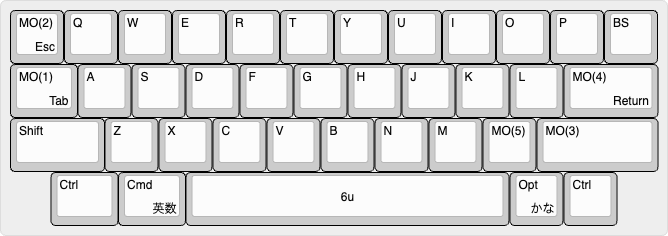
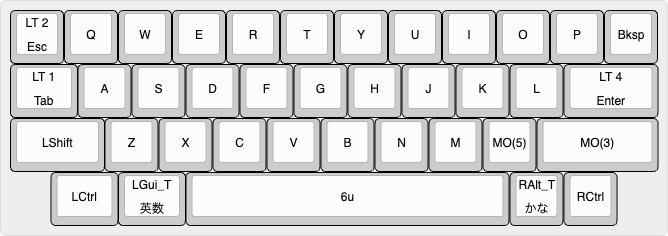
Add each layer images

diff --git a/README.md b/README.md
@@ -6,23 +6,37 @@ A 38-key (3-octave + 1) keyboard.
 
 ## Layout
 
-**Layer 0**:
+v0.3.0
 
-📄 [keyboard-layout.png](layout/keyboard-layout.png) (v0.2.0)
+**Layer 0**:
 
 ![keyboard layout](layout/keyboard-layout.png)
 
-MEMO: When pressed individually and released, it becomes the lower right keys (Esc, 英数 and かな).
+MEMO: I couldn't figure out how to map keys to `fn` on macOS using Vial, so I am using Karabiner-Elements, a macOS app, to modify `right_control` to `fn`.
+
+**Layer 1, 2**: arrows, symbols
+
+![keyboard layout 1](layout/keyboard-layout-1.png)
+![keyboard layout 2](layout/keyboard-layout-2.png)
+
+**Layer 3, 4**: nums, symbols
+
+![keyboard layout 3](layout/keyboard-layout-3.png)
+![keyboard layout 4](layout/keyboard-layout-4.png)
+
+**Layer 5**: fn
+
+![keyboard layout 5](layout/keyboard-layout-5.png)
 
 **RAW data for Keyboard Layout Editor v0.15:**
 
 📄 [keyboard-layout.rawdata.json](layout/keyboard-layout.rawdata.json)
 
 ```json
-["MO(2)\n\n\nEsc","Q","W","E","R","T","Y","U","I","O","P","BS"],
-[{"w":1.25},"MO(1)\n\n\nTab","A","S","D","F","G","H","J","K","L",{"w":1.75},"MO(4)\n\n\nReturn"],
-[{"w":1.75},"Shift","Z","X","C","V","B","N","M","MO(5)",{"w":2.25},"MO(3)"],
-[{"x":0.75,"w":1.25},"Ctrl",{"w":1.25},"Cmd\n\n\n英数",{"a":7,"w":6},"6u",{"a":4},"Opt\n\n\nかな","Ctrl"]
+[{a:1},"LT 2\nEsc",{a:7},"Q","W","E","R","T","Y","U","I","O","P","Bksp"],
+[{a:1,w:1.25},"LT 1\nTab",{a:7},"A","S","D","F","G","H","J","K","L",{a:1,w:1.75},"LT 4\nEnter"],
+[{a:7,w:1.75},"LShift","Z","X","C","V","B","N","M","MO(5)",{w:2.25},"MO(3)"],
+[{x:0.75,w:1.25},"LCtrl",{a:1,w:1.25},"LGui_T\n英数",{a:7,w:6},"6u",{a:1},"RAlt_T\nかな",{a:7},"RCtrl"],
 ```
 
 - 🔗 [Keyboard Layout Editor](http://www.keyboard-layout-editor.com/)
